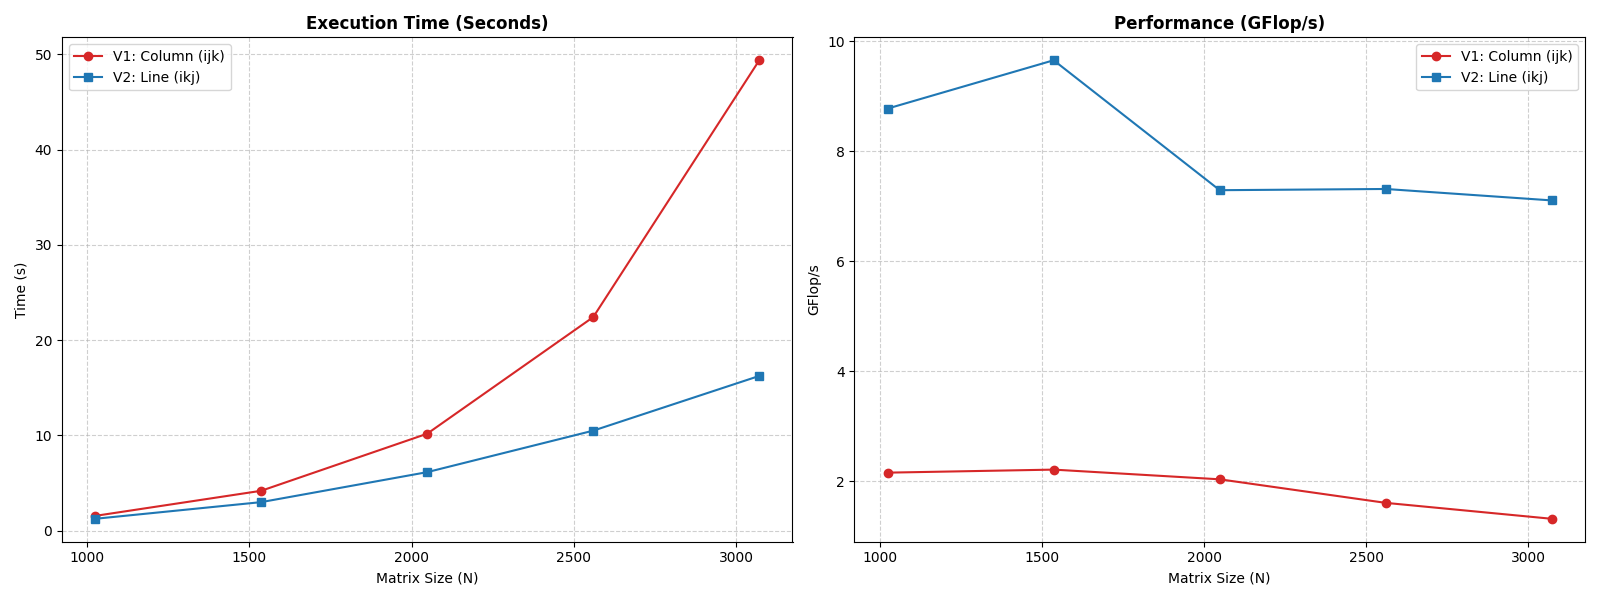
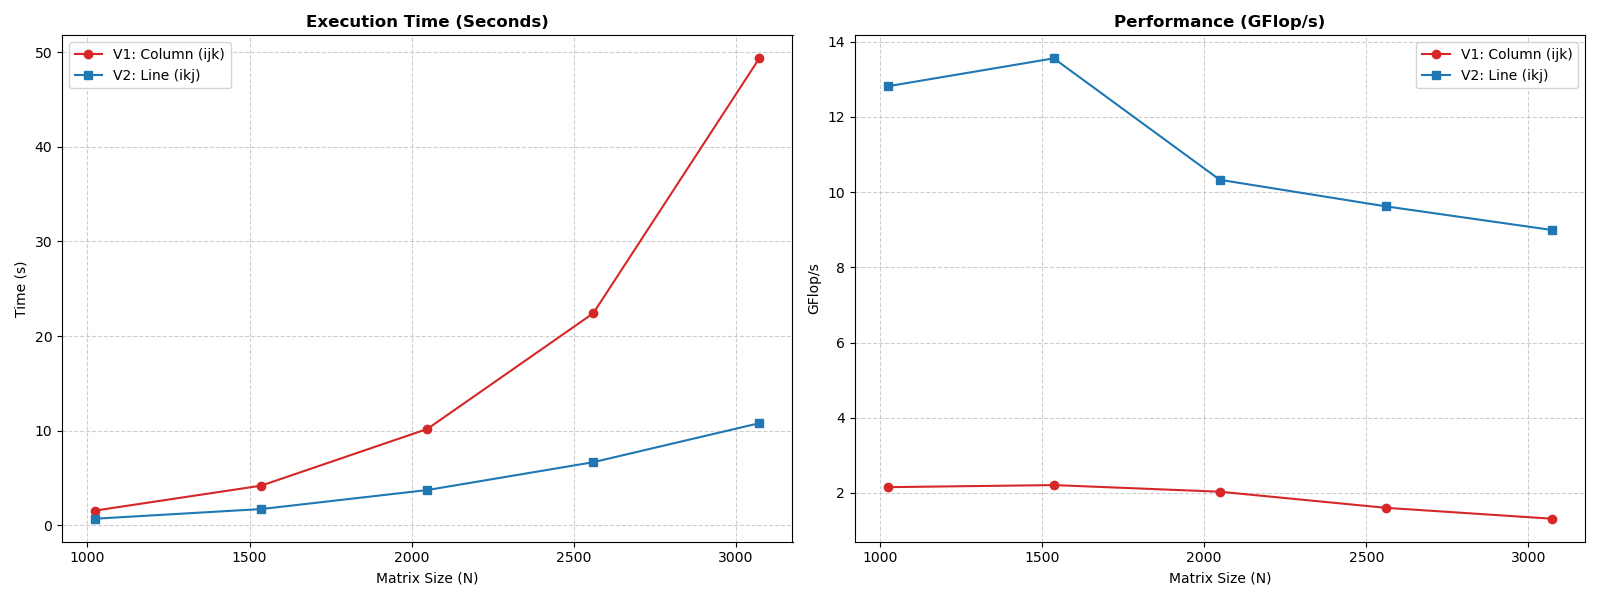
Added directives comparison

diff --git a/assign1/doc/parallel_graphs/plot_parallel.py b/assign1/doc/parallel_graphs/plot_parallel.py
@@ -119,6 +119,40 @@ if scale_data is not None:
     plt.tight_layout()
     plt.savefig(os.path.join(OUTPUT_DIR, "scalability.png"))
 
+# Outer vs Inner loop comparison for both versions
+v1_suboption = load_and_group("results_parallel_version1.csv", by_suboption=True)
+v2_suboption = load_and_group("results_parallel_version2.csv", by_suboption=True)
+
+if v1_suboption is not None and v2_suboption is not None:
+    fig, (ax1, ax2) = plt.subplots(1, 2, figsize=(14, 5))
+
+    # Version 1 (ijk): outer (SubOption 2) vs inner (SubOption 3)
+    v1_outer = v1_suboption[v1_suboption["SubOption"] == 2].sort_values("Size")
+    v1_inner = v1_suboption[v1_suboption["SubOption"] == 3].sort_values("Size")
+
+    ax1.plot(v1_outer["Size"], v1_outer["GFlops"], color="#1f77b4", marker="o", label="Outer loop (parallel for)")
+    ax1.plot(v1_inner["Size"], v1_inner["GFlops"], color="#d62728", marker="x", label="Inner loop (parallel + inner for)")
+    ax1.set_title("Version 1 (ijk): Outer vs Inner Loop", fontweight="bold")
+    ax1.set_xlabel("Matrix Size (N)")
+    ax1.set_ylabel("GFlop/s")
+    ax1.legend()
+    ax1.grid(True, linestyle="--", alpha=0.6)
+
+    # Version 2 (ikj): outer (SubOption 2) vs inner (SubOption 5)
+    v2_outer = v2_suboption[v2_suboption["SubOption"] == 2].sort_values("Size")
+    v2_inner = v2_suboption[v2_suboption["SubOption"] == 5].sort_values("Size")
+
+    ax2.plot(v2_outer["Size"], v2_outer["GFlops"], color="#1f77b4", marker="o", label="Outer loop (parallel for)")
+    ax2.plot(v2_inner["Size"], v2_inner["GFlops"], color="#d62728", marker="x", label="Inner loop (parallel + inner for)")
+    ax2.set_title("Version 2 (ikj): Outer vs Inner Loop", fontweight="bold")
+    ax2.set_xlabel("Matrix Size (N)")
+    ax2.set_ylabel("GFlop/s")
+    ax2.legend()
+    ax2.grid(True, linestyle="--", alpha=0.6)
+
+    plt.tight_layout()
+    plt.savefig(os.path.join(OUTPUT_DIR, "outer_vs_inner_loop.png"))
+
 # Directives comparison for Version 2 (line-based)
 directives_data = load_and_group("results_parallel_version2.csv", by_suboption=True)
 

diff --git a/assign1/doc/parallel_graphs/README.md b/assign1/doc/parallel_graphs/README.md
@@ -32,9 +32,26 @@ We compared two parallel implementations using 4 threads for matrix sizes rangin
 
 The data reveals a performance gap where **Version 2 (ikj)** consistently maintains a throughput nearly four times higher than **Version 1 (ijk)**.
 
-TIn Version 1 (ijk), the inner loop iterates over $j$, which corresponds to the columns of the second matrix. Because matrices are stored in row-major order, accessing the next column requires jumping across an entire row in memory. This pattern quickly exhausts the cache lines, leading to a high frequency of cache misses where the CPU must idle while waiting for data from the much slower RAM.
+In Version 1 (ijk), the inner loop iterates over $j$, which corresponds to the columns of the second matrix. Because matrices are stored in row-major order, accessing the next column requires jumping across an entire row in memory. This pattern quickly exhausts the cache lines, leading to a high frequency of cache misses where the CPU must idle while waiting for data from the much slower RAM.
 
 In contrast, Version 2 (ikj) reorders the loops so the inner loop iterates over $j$ while $k$ is fixed. This allows the algorithm to access the second matrix linearly. By reading contiguous memory addresses, the CPU can pre-fetch data into the L1/L2 caches effectively. Even with 4 threads competing for resources, Version 2's cache-friendly nature allows it to spend more cycles performing actual floating-point operations, resulting in the superior GFlop/s observed above.
+
+### Outer Loop vs Inner Loop Parallelization
+
+We compared two parallelization strategies for each version:
+- **Outer loop**: `#pragma omp parallel for` on the outermost loop
+- **Inner loop**: `#pragma omp parallel` with `#pragma omp for` on the innermost loop
+
+![Outer vs Inner Loop](./outer_vs_inner_loop.png)
+
+#### Conclusions
+
+For both versions, parallelizing the **outer loop** vastly outperforms parallelizing the **inner loop**:
+
+- **Version 1 (ijk)**: Outer loop achieves ~2-3 GFlop/s while inner loop drops to ~0.8-1.3 GFlop/s.
+- **Version 2 (ikj)**: Outer loop achieves ~12-17 GFlop/s while inner loop achieves only ~1-2 GFlop/s.
+
+The inner loop parallelization performs poorly because it creates and synchronizes threads repeatedly for every iteration of the outer loops. This overhead dominates the computation time, making the parallelization counterproductive.
 
 ## 2. Scalability Analysis
 

diff --git a/assign1/README.md b/assign1/README.md
@@ -73,9 +73,9 @@ We parallelized both algorithms using OpenMP with 4 threads, testing two paralle
 ![Version Comparison](./doc/parallel_graphs/versions_comparison.png)
 
 **Key Findings:**
-
 - Version 2 (ikj) maintains ~4x higher throughput than Version 1 (ijk), consistent with single-core results.
-- Parallelizing the outer loop is essential, parallelizing the inner loop causes a lot of overhead.
+- Parallelizing the **outer loop** vastly outperforms parallelizing the **inner loop** for both versions.
+- Inner loop parallelization causes massive overhead due to repeated thread creation/synchronization.
 
 ### 2.2 Scalability Analysis
 
@@ -100,5 +100,3 @@ We evaluated different OpenMP directives: `parallel for`, `for simd`, `collapse(
 - `parallel for` and `for simd` perform best (15-19 GFlop/s).
 - `collapse(2)` adds scheduling overhead with minimal benefit.
 - `parallel + inner for` performs extremely bad due to repeated thread synchronization.
-
-For detailed graphs and analysis, see [parallel_graphs/README.md](./doc/parallel_graphs/README.md).